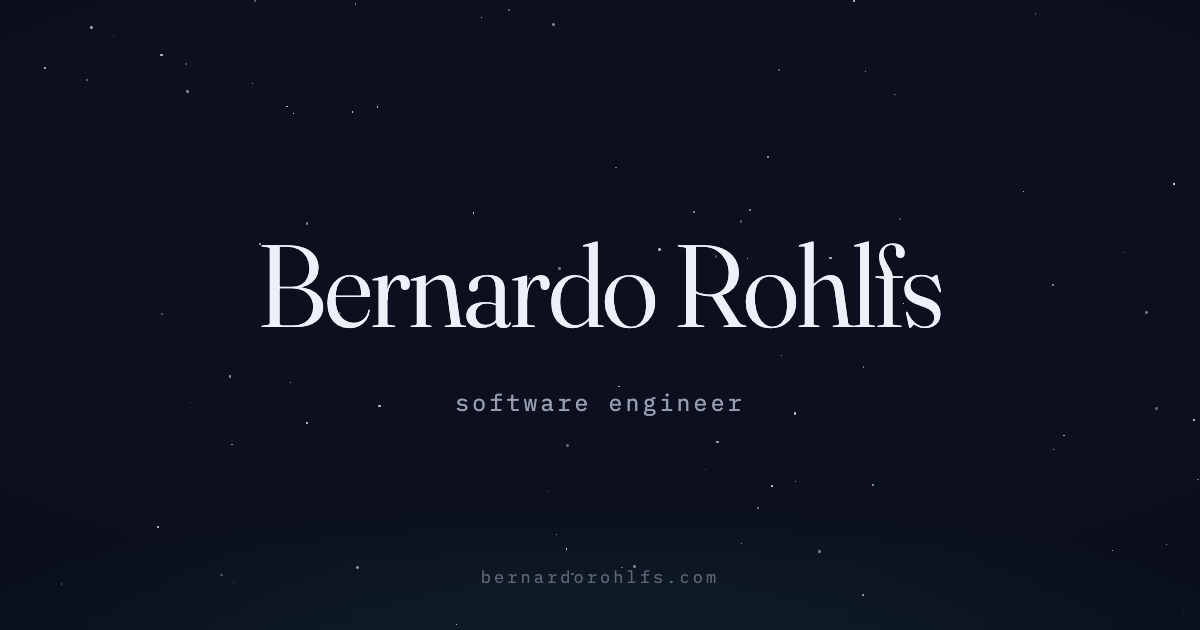
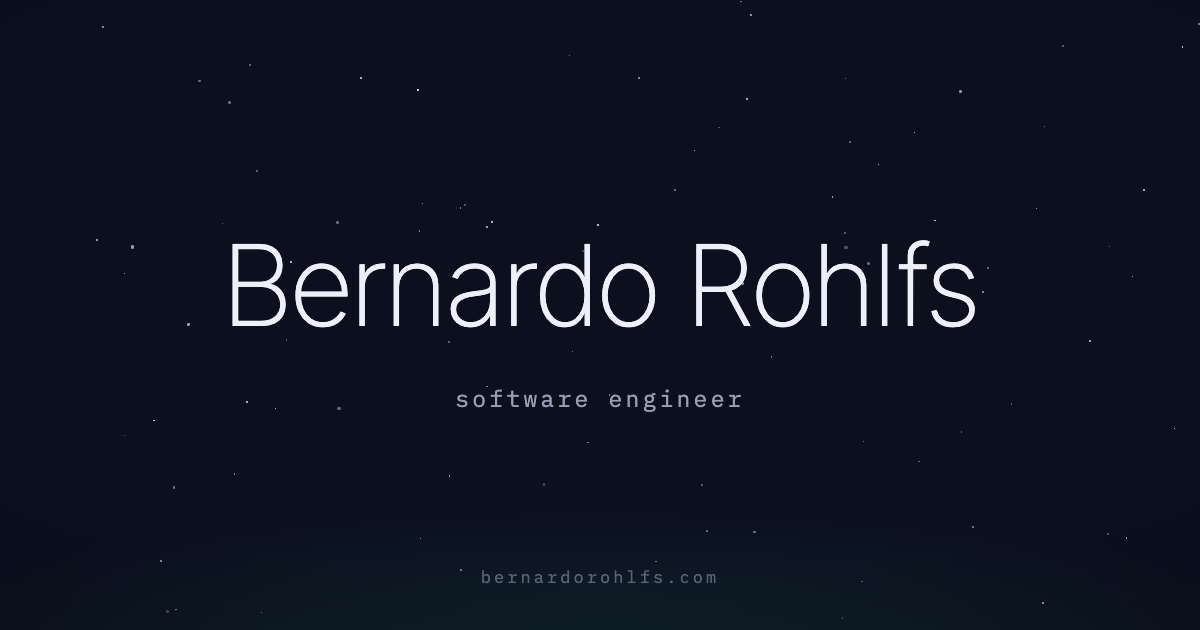
fix: kill canvas ghosting, sharpen type, drier tagline
- fx canvas is now fully cleared each frame; trails are per-particle velocity
  streaks, so nothing accumulates (the destination-out fade stalled at low
  alpha and permanently polluted the sky)
- Fraunces -> Inter Tight at weight 200: stoic and sharp instead of ornate
- tagline: 'software engineer. the rest is sky.'

Changed region(s): [[0.185, 0.3619, 0.8325, 0.5429], [0.37, 0.6032, 0.6167, 0.6635]]

diff --git a/my-app/lib/engine/particles.ts b/my-app/lib/engine/particles.ts
@@ -80,21 +80,32 @@ export class Pool {
     }
   }
 
-  /** Caller sets composite mode (sparks look best on 'lighter'). */
+  /**
+   * Caller sets composite mode (sparks look best on 'lighter'). Fast particles
+   * are drawn as short velocity streaks — motion blur that lives and dies with
+   * the particle, never accumulating on the canvas.
+   */
   render(ctx: CanvasRenderingContext2D) {
+    const TRAIL = 2.5 // streak length, in frames of motion
+    ctx.lineCap = "round"
     for (let i = 0; i < this.activeIdx.length; i++) {
       const p = this.items[this.activeIdx[i]]
       const t = p.life / p.ttl
       if (p.flicker && t < 0.5 && Math.random() < 0.4) continue
       // ease the fade: stay bright through mid-life, then drop away
       ctx.globalAlpha = Math.pow(t, 0.7)
-      ctx.fillStyle = p.color
-      if (p.size < 1) {
-        ctx.fillRect(p.x, p.y, p.size, p.size)
-      } else {
+      if (p.vx * p.vx + p.vy * p.vy < 0.09) {
+        ctx.fillStyle = p.color
         ctx.beginPath()
-        ctx.arc(p.x, p.y, p.size, 0, TAU)
+        ctx.arc(p.x, p.y, p.size * 0.5, 0, TAU)
         ctx.fill()
+      } else {
+        ctx.strokeStyle = p.color
+        ctx.lineWidth = p.size
+        ctx.beginPath()
+        ctx.moveTo(p.x - p.vx * TRAIL, p.y - p.vy * TRAIL)
+        ctx.lineTo(p.x, p.y)
+        ctx.stroke()
       }
     }
     ctx.globalAlpha = 1

diff --git a/my-app/app/layout.tsx b/my-app/app/layout.tsx
@@ -2,13 +2,11 @@
 import "./globals.css"
 // Next
 import type { Metadata, Viewport } from "next"
-import { Fraunces, IBM_Plex_Mono } from "next/font/google"
+import { IBM_Plex_Mono, Inter_Tight } from "next/font/google"
 
-const fraunces = Fraunces({
+const interTight = Inter_Tight({
   subsets: ["latin"],
-  style: ["normal", "italic"],
-  axes: ["opsz"],
-  variable: "--font-fraunces",
+  variable: "--font-inter-tight",
 })
 
 const plexMono = IBM_Plex_Mono({
@@ -63,7 +61,7 @@ type Props = {
 
 export default function RootLayout({ children }: Props) {
   return (
-    <html lang="en" className={`${fraunces.variable} ${plexMono.variable}`}>
+    <html lang="en" className={`${interTight.variable} ${plexMono.variable}`}>
       <body>{children}</body>
     </html>
   )

diff --git a/my-app/lib/engine/fireworks.ts b/my-app/lib/engine/fireworks.ts
@@ -239,13 +239,19 @@ export function createFireworks(
     render(ctx, ptr) {
       const glow = getGlowSprite()
 
+      ctx.lineCap = "round"
       for (let i = 0; i < rockets.length; i++) {
         const r = rockets[i]
         ctx.globalAlpha = 0.35
         ctx.drawImage(glow, r.x - 12, r.y - 12, 24, 24)
+        ctx.globalAlpha = 0.9
+        ctx.strokeStyle = "rgb(255, 250, 235)"
+        ctx.lineWidth = 2
+        ctx.beginPath()
+        ctx.moveTo(r.x - r.vx * 2.5, r.y - r.vy * 2.5)
+        ctx.lineTo(r.x, r.y)
+        ctx.stroke()
         ctx.globalAlpha = 1
-        ctx.fillStyle = "rgb(255, 250, 235)"
-        ctx.fillRect(r.x - 1, r.y - 1, 2, 2)
       }
 
       // charging ring while a hold is building up

diff --git a/my-app/lib/engine/engine.ts b/my-app/lib/engine/engine.ts
@@ -136,11 +136,9 @@ export function createEngine(opts: EngineOptions): Engine {
     starsCtx.clearRect(0, 0, size.w, size.h)
     starfield.render(starsCtx)
 
-    // fade the previous fx frame toward transparency (free motion trails),
-    // then draw everything additively for glow
-    fxCtx.globalCompositeOperation = "destination-out"
-    fxCtx.fillStyle = "rgba(0, 0, 0, 0.15)"
-    fxCtx.fillRect(0, 0, size.w, size.h)
+    // fully cleared every frame — motion comes from per-particle velocity
+    // streaks, so nothing ever accumulates or ghosts on the canvas
+    fxCtx.clearRect(0, 0, size.w, size.h)
     fxCtx.globalCompositeOperation = "lighter"
     pool.render(fxCtx)
     fireworks.render(fxCtx, pointer.state)

diff --git a/my-app/app/globals.css b/my-app/app/globals.css
@@ -12,7 +12,7 @@
   --color-accent: oklch(0.78 0.15 160);
   --color-accent-deep: oklch(0.65 0.1559 160.13);
 
-  --font-display: var(--font-fraunces), Georgia, "Times New Roman", serif;
+  --font-display: var(--font-inter-tight), ui-sans-serif, system-ui, sans-serif;
   --font-mono: var(--font-plex-mono), ui-monospace, SFMono-Regular, Menlo, monospace;
 }
 
@@ -150,10 +150,9 @@ body {
 
 .name {
   font-family: var(--font-display);
-  font-weight: 340;
-  font-optical-sizing: auto;
+  font-weight: 200;
   font-size: clamp(3rem, 10vw, 8rem);
-  letter-spacing: -0.015em;
+  letter-spacing: -0.02em;
   line-height: 1.05;
   color: var(--color-ink);
   text-wrap: balance;

diff --git a/my-app/lib/engine/shootingstar.ts b/my-app/lib/engine/shootingstar.ts
@@ -87,6 +87,15 @@ export function createShootingStar(
       const glow = getGlowSprite()
       ctx.globalAlpha = 0.4
       ctx.drawImage(glow, x - 14, y - 14, 28, 28)
+      // velocity streak behind the head
+      ctx.globalAlpha = 0.85
+      ctx.strokeStyle = "rgb(230, 240, 255)"
+      ctx.lineWidth = 1.6
+      ctx.lineCap = "round"
+      ctx.beginPath()
+      ctx.moveTo(x - vx * 4, y - vy * 4)
+      ctx.lineTo(x, y)
+      ctx.stroke()
       ctx.globalAlpha = 1
       ctx.fillStyle = "rgb(255, 255, 255)"
       ctx.beginPath()

diff --git a/my-app/app/components/Scene.tsx b/my-app/app/components/Scene.tsx
@@ -82,7 +82,7 @@ export function Scene() {
       greeted = true
       console.log(
         "%c☾ bernardo rohlfs",
-        "font: 600 20px Georgia, serif; color: #3fd9a1; text-shadow: 0 0 12px rgba(63, 217, 161, 0.5)"
+        "font: 500 18px ui-monospace, Menlo, monospace; color: #3fd9a1; text-shadow: 0 0 12px rgba(63, 217, 161, 0.5)"
       )
       console.log(
         "%cnice of you to look under the hood.\ntry: ↑ ↑ ↓ ↓ ← → ← → b a",

diff --git a/my-app/app/page.tsx b/my-app/app/page.tsx
@@ -39,9 +39,7 @@ export default function Home() {
           ))}
         </h1>
 
-        <p className="tagline">
-          software engineer — building precise, playful things for the web
-        </p>
+        <p className="tagline">software engineer. the rest is sky.</p>
 
         <nav className="links" aria-label="Profiles">
           {LINKS.map((link) => (
